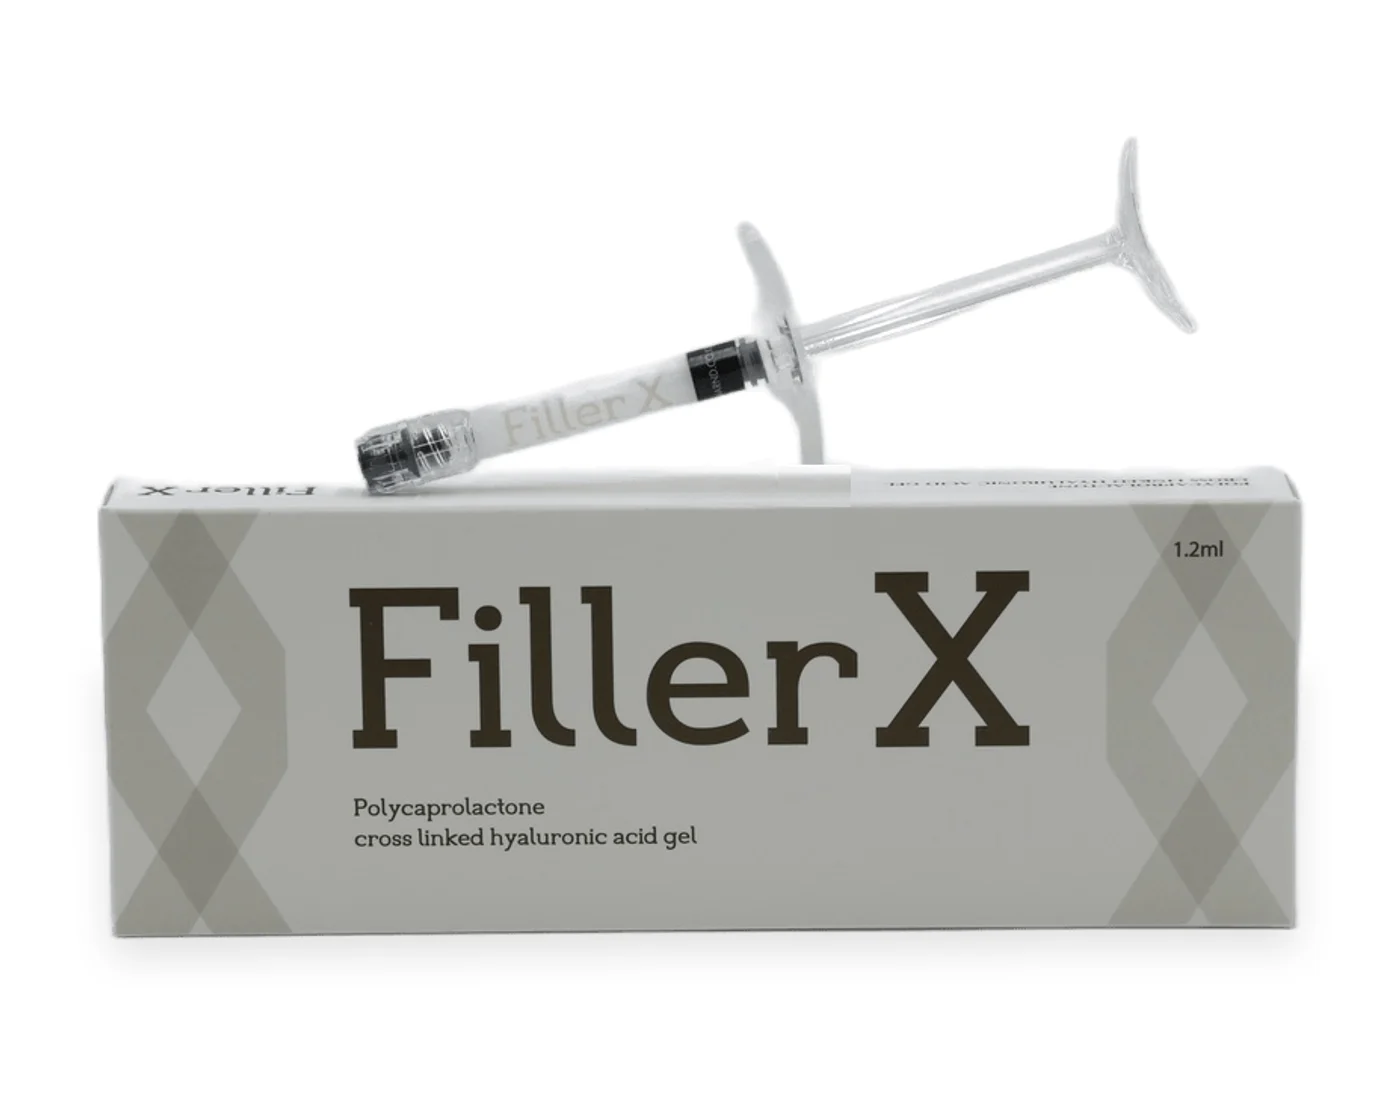
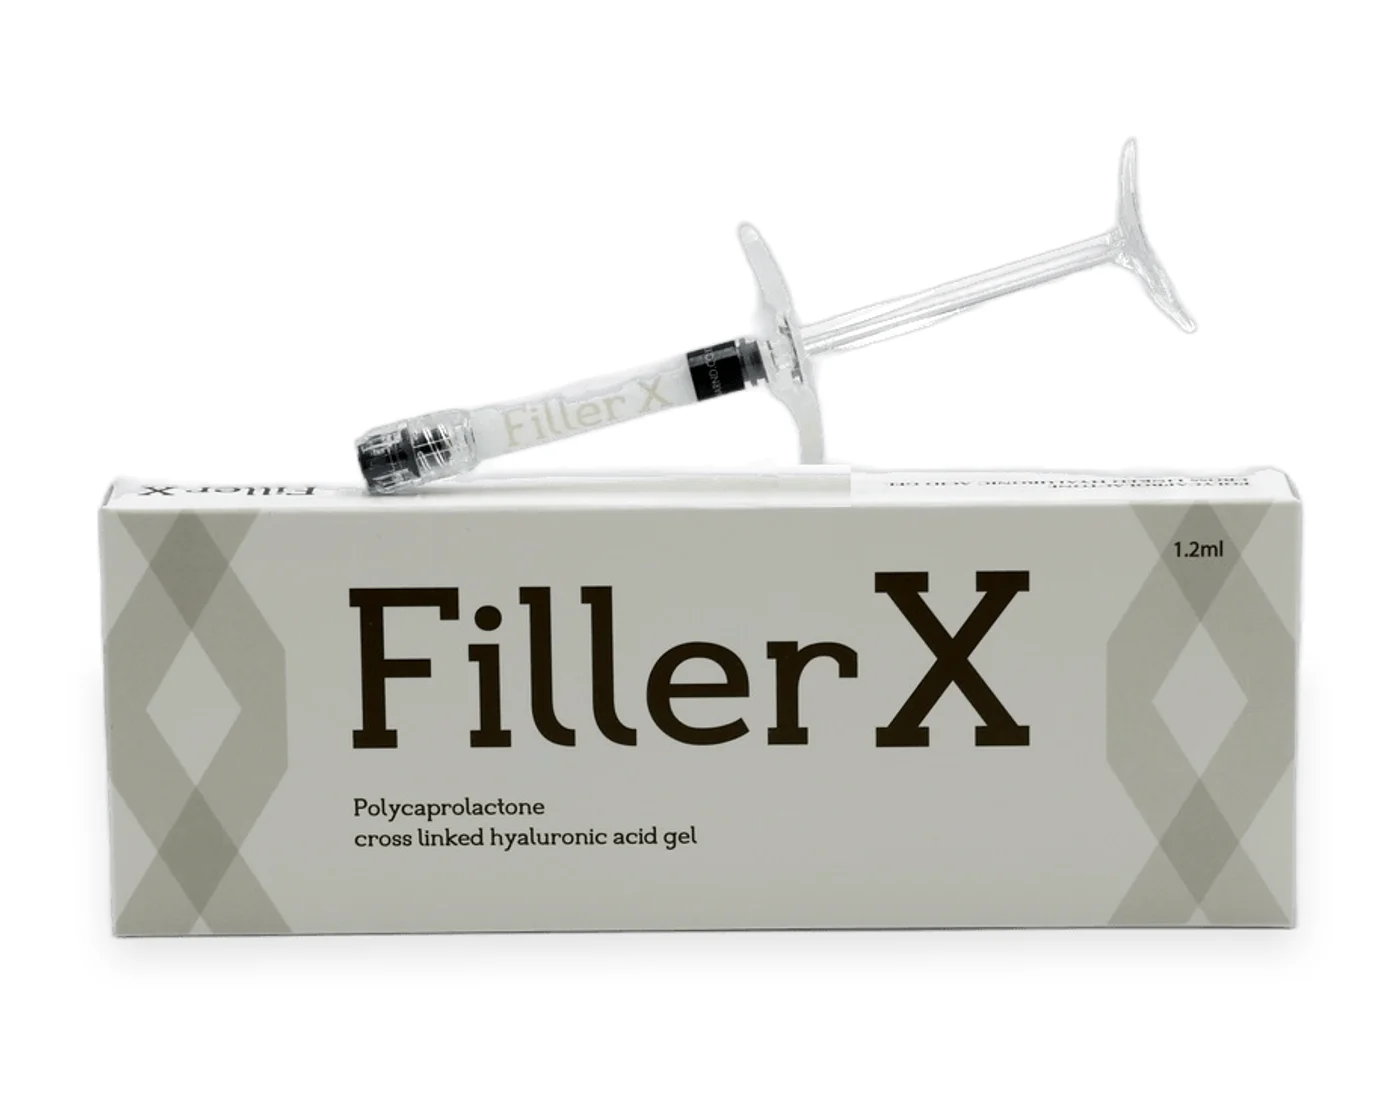
Packshots: unify exposure and colour across sessions (white point 246 on carton whites, black point 10)
The first rebuild only neutralised the backdrop; carton whites still sat at 215-235 with
per-session casts, so the images looked dull and mismatched next to each other. finish.js now
grades each shot on its own brightest neutral surface. Same 14 files replaced.

diff --git a/scripts/packshot/finish.js b/scripts/packshot/finish.js
@@ -14,6 +14,21 @@ const OW = +(opt.w ?? 1400), OH = +(opt.h ?? 1120), PAD = +(opt.pad ?? 0.08), sh
   // 알파 정리: 아주 옅은 알파(먼지·그림자 잔재)는 0으로, 나머지는 그대로
   const a = new Uint8Array(W * H); let x0 = W, x1 = 0, y0 = H, y1 = 0;
   for (let k = 0; k < W * H; k++) { let v = px[k * 4 + 3]; if (v < 24) v = 0; a[k] = v; if (v > 40) { const x = k % W, y = (k - x) / W; if (x < x0) x0 = x; if (x > x1) x1 = x; if (y < y0) y0 = y; if (y > y1) y1 = y; } }
+  // 톤 통일(--grade): 제품 안의 가장 밝은 무채색(상자 흰 면)을 기준으로 채널별 게인 → 흰 점 246, 가장 어두운 0.5%를 검은 점 10으로.
+  // 세션마다 다른 노출·색온도를 같은 자리로 맞춘다. 배경은 어차피 흰색이라 물체 픽셀에만 적용.
+  if (opt.grade !== '0') {
+    const lum = [], idx = [];
+    for (let k = 0; k < W * H; k++) if (a[k] > 200) { const i = k * 4; lum.push((px[i] + px[i + 1] + px[i + 2]) / 3); idx.push(k); }
+    const sorted = Float32Array.from(lum).sort();
+    const hi = sorted[Math.floor(sorted.length * 0.97)], lo = sorted[Math.floor(sorted.length * 0.005)];
+    const s = [0, 0, 0]; let n = 0;
+    for (let j = 0; j < idx.length; j++) { if (lum[j] < hi) continue; const i = idx[j] * 4; const mx = Math.max(px[i], px[i + 1], px[i + 2]), mn = Math.min(px[i], px[i + 1], px[i + 2]); if (mx - mn > 28) continue; s[0] += px[i]; s[1] += px[i + 1]; s[2] += px[i + 2]; n++; }
+    const WHITE = 246, BLACK = 10;
+    const gain = n > 50 ? s.map((v) => WHITE / (v / n)) : [WHITE / hi, WHITE / hi, WHITE / hi];
+    const g = (gain[0] + gain[1] + gain[2]) / 3; const b = lo * g; const scale = (WHITE - BLACK) / Math.max(1, WHITE - b);
+    for (const k of idx) { const i = k * 4; for (let c = 0; c < 3; c++) px[i + c] = (px[i + c] * gain[c] - b) * scale + BLACK; }
+    console.log('grade: white ref', n, 'px', 'gain', gain.map((v) => v.toFixed(3)).join('/'), 'black', Math.round(lo), '->', BLACK);
+  }
   // 그림자: 물체 아래 35% 구간 마스크를 크게 번져 12px 아래로, 최대 12% 어둡게
   let sh = null;
   if (shadow) {

diff --git a/scripts/packshot/README.md b/scripts/packshot/README.md
@@ -6,6 +6,6 @@
 2. `node rm.js <이름>_in.jpg <이름>_rgba.png` — IS-Net(`@imgly/background-removal-node@1.4.5`) 알파. sharp와 onnxruntime이 한 프로세스에서 DLL 충돌하므로 이 단계는 sharp 없이 돈다.
    패키지는 별도 폴더에 `npm i @imgly/background-removal-node@1.4.5` 후 그 폴더에서 실행.
 3. `node finish.js <이름>_rgba.png <출력>.webp --w=1400 --h=1120 [--clone=x,y,w,h,dx,dy] [--clear=x,y,w,h]`
-   — 흰 배경 합성, 바닥 쪽 옅은 그림자, 제품 영역 크롭. clone은 점토 같은 지지물 지우기(입력 PNG 픽셀 좌표).
+   — 흰 배경 합성, 톤 통일(상자 흰 면 기준 채널 게인 → 흰 점 246·검은 점 10, `--grade=0`으로 끔), 바닥 쪽 옅은 그림자, 제품 영역 크롭. clone은 점토 같은 지지물 지우기(입력 PNG 픽셀 좌표).
 
 2026-10-19 원본 매핑(캐논 1X3A): 4554 CH · 4559 Filler X(점토 `--clone=1036,572,48,28,-70,0`) · 4560 PH · 4590 PATCH · 4593 HA body · 4601 PN · 4602 BOOSTER · 4603/4606/4607 HA B/C/A(440×1040 PNG 세 장을 1400×1120 캔버스에 20/480/940 위치로 합성).
